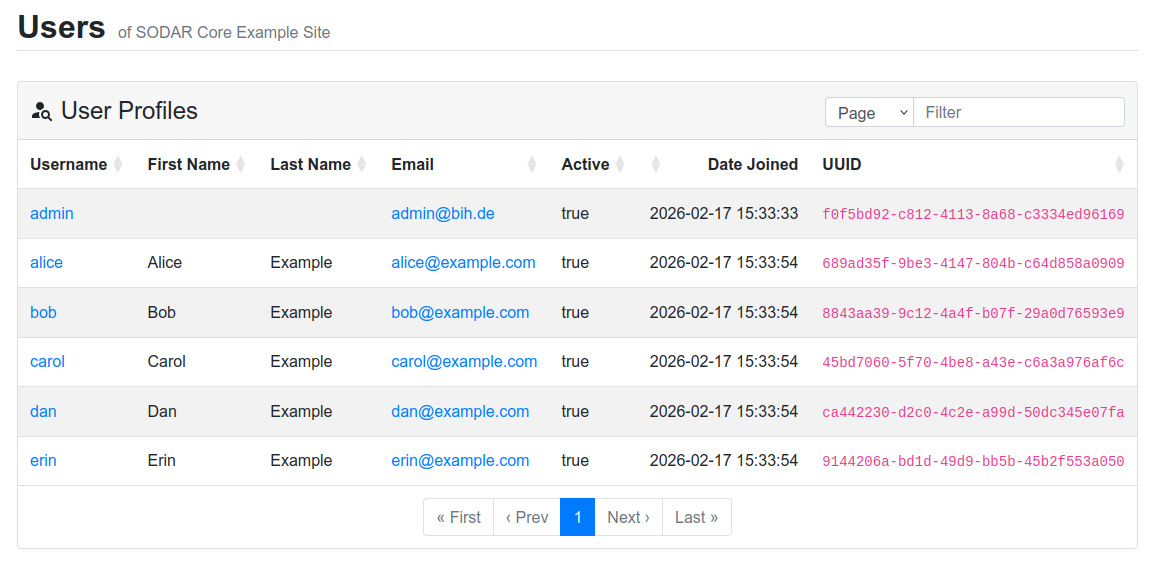
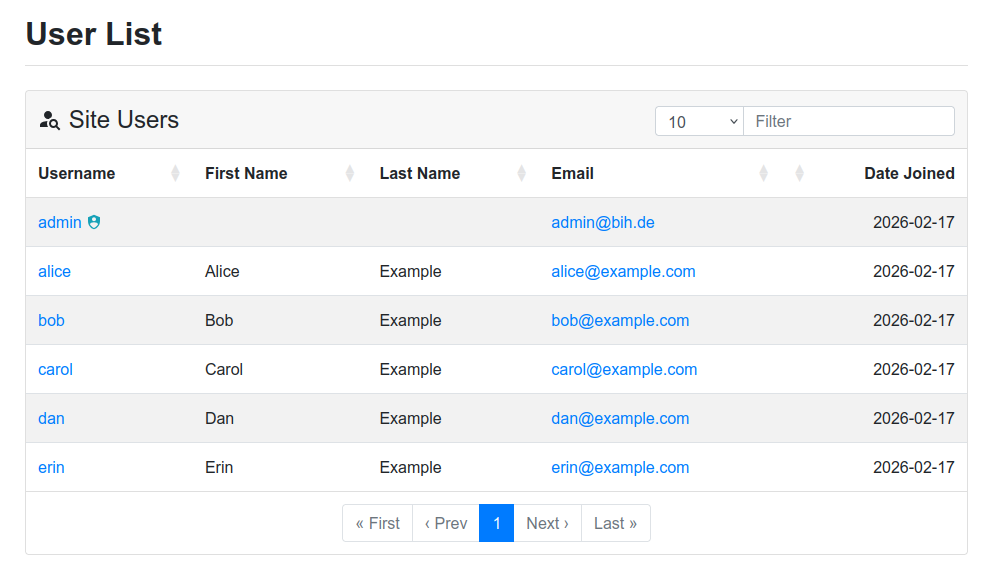
use get_user_html() in UserListAjaxView (#1984)

diff --git a/userprofile/static/userprofile/js/list.js b/userprofile/static/userprofile/js/list.js
@@ -7,13 +7,8 @@ const spinner = $('#sodar-up-user-list-spinner')
 $.get(userList.data('url')).done(data => {
   spinner.remove()
   for (let user of data) {
-    const userEmailLink = userList.data('link-prefix') + '/' + user.sodar_uuid
     const tr = $('<tr>')
-    $('<td>').html(
-      $('<a>', {
-        href: userEmailLink + '?source=UserListView'
-      }).text(user.username)
-    ).appendTo(tr)
+    $('<td>').html(user.user_html).appendTo(tr)
     $('<td>').text(user.first_name).appendTo(tr)
     $('<td>').text(user.last_name).appendTo(tr)
     $('<td>').html(

diff --git a/userprofile/templates/userprofile/detail.html b/userprofile/templates/userprofile/detail.html
@@ -36,12 +36,6 @@
   <div class="sodar-pr-content-title-secondary text-muted">
     User Profile
   </div>
-  {% if request.GET.source == 'UserListView' %}
-    <a role="button" class="btn btn-secondary ml-auto pull-right"
-       href="{% url 'userprofile:list' %}">
-      <i class="iconify" data-icon="mdi:arrow-left-circle"></i> Back
-    </a>
-  {% endif %}
 </div>
 
 <div class="container-fluid sodar-page-container">

diff --git a/userprofile/tests/test_views_ajax.py b/userprofile/tests/test_views_ajax.py
@@ -3,6 +3,7 @@
 from django.urls import reverse
 from django.utils.timezone import localtime
 
+from projectroles.templatetags.projectroles_common_tags import get_user_html
 from userprofile.tests.test_views import UserViewTestBase
 
 
@@ -19,31 +20,28 @@ class TestUserListAjaxView(UserViewTestBase):
         self.url = reverse('userprofile:ajax_list')
         self.expected = [
             {
-                'username': 'other_user',
+                'user_html': get_user_html(self.other_user),
                 'first_name': '',
                 'last_name': '',
                 'email': 'other_user@example.com',
-                'is_active': False,
                 'date_joined': localtime(self.other_user.date_joined).strftime(
                     '%Y-%m-%d'
                 ),
             },
             {
-                'username': 'regular_user',
+                'user_html': get_user_html(self.regular_user),
                 'first_name': 'Roger',
                 'last_name': 'Larsen',
                 'email': 'regular_user@example.com',
-                'is_active': True,
                 'date_joined': localtime(
                     self.regular_user.date_joined
                 ).strftime('%Y-%m-%d'),
             },
             {
-                'username': 'superuser',
+                'user_html': get_user_html(self.user),
                 'first_name': '',
                 'last_name': '',
                 'email': 'superuser@example.com',
-                'is_active': True,
                 'date_joined': localtime(self.user.date_joined).strftime(
                     '%Y-%m-%d'
                 ),
@@ -56,7 +54,7 @@ class TestUserListAjaxView(UserViewTestBase):
             response = self.client.get(self.url)
         self.assertEqual(response.status_code, 200)
         self.assertEqual(
-            sorted(response.data, key=lambda x: x['username']), self.expected
+            sorted(response.data, key=lambda x: x['email']), self.expected
         )
 
     def test_get_as_regular_user(self):
@@ -65,7 +63,7 @@ class TestUserListAjaxView(UserViewTestBase):
             response = self.client.get(self.url)
         self.assertEqual(response.status_code, 200)
         self.assertEqual(
-            sorted(response.data, key=lambda x: x['username']), self.expected
+            sorted(response.data, key=lambda x: x['email']), self.expected
         )
 
     def test_get_as_anonymous_user(self):

diff --git a/userprofile/tests/test_ui.py b/userprofile/tests/test_ui.py
@@ -1,7 +1,5 @@
 """UI tests for the userprofile app"""
 
-from urllib.parse import urlsplit
-
 from django.test import override_settings
 from django.urls import reverse
 from django.utils.timezone import localtime
@@ -412,19 +410,40 @@ class TestUserListView(SiteUITestBase):
         :raise: AssertionError if row fields are not as expected
         """
         cells = row.find_elements(By.TAG_NAME, 'td')
-        user_profile_href = (
-            cells[0].find_element(By.TAG_NAME, 'a').get_attribute('href')
-        )
-        user_profile_path = reverse(
-            'userprofile:detail_public', kwargs={'user': user.sodar_uuid}
-        )
+        if user.is_superuser:
+            # Wait before icon is rendered
+            WebDriverWait(cells[0], 15).until(
+                lambda x: x.find_element(By.TAG_NAME, 'svg')
+            )
+            user_icon = (
+                cells[0]
+                .find_element(By.TAG_NAME, 'svg')
+                .get_attribute('data-icon')
+            )
+            self.assertEqual(user_icon, 'mdi:shield-account')
+        if user.is_active:
+            table_href = (
+                cells[0].find_element(By.TAG_NAME, 'a').get_attribute('href')
+            )
+            user_profile_link = f'mailto:{user.email}'
+            self.assertEqual(table_href, user_profile_link)
+        else:
+            # Wait before icon is rendered
+            WebDriverWait(cells[0], 15).until(
+                lambda x: x.find_element(By.TAG_NAME, 'svg')
+            )
+            user_icon = (
+                cells[0]
+                .find_element(By.TAG_NAME, 'svg')
+                .get_attribute('data-icon')
+            )
+            self.assertEqual(user_icon, 'mdi:account-off')
         self.assertEqual(cells[0].text, user.username)
-        self.assertEqual(urlsplit(user_profile_href).path, user_profile_path)
         self.assertEqual(cells[1].text, user.first_name)
         self.assertEqual(cells[2].text, user.last_name)
         self.assertEqual(cells[3].text, user.email)
         self.assertEqual(
-            cells[3].find_element(By.TAG_NAME('a')).get_attribute('href'),
+            cells[3].find_element(By.TAG_NAME, 'a').get_attribute('href'),
             f'mailto:{user.email}',
         )
         self.assertEqual(

diff --git a/userprofile/views_ajax.py b/userprofile/views_ajax.py
@@ -3,6 +3,7 @@ from django.utils.timezone import localtime
 from rest_framework.response import Response
 
 from projectroles.views_ajax import SODARBasePermissionAjaxView
+from projectroles.templatetags.projectroles_common_tags import get_user_html
 
 
 User = auth.get_user_model()
@@ -14,17 +15,14 @@ class UserListAjaxView(SODARBasePermissionAjaxView):
     permission_required = 'userprofile.view_list'
 
     def get(self, request, *args, **kwargs):
-        queryset = User.objects.values()
+        queryset = User.objects.all()
         res = [
             {
-                'username': obj['username'],
-                'first_name': obj['first_name'],
-                'last_name': obj['last_name'],
-                'email': obj['email'],
-                'is_active': obj['is_active'],
-                'date_joined': localtime(obj['date_joined']).strftime(
-                    '%Y-%m-%d'
-                ),
+                'user_html': get_user_html(obj),
+                'first_name': obj.first_name,
+                'last_name': obj.last_name,
+                'email': obj.email,
+                'date_joined': localtime(obj.date_joined).strftime('%Y-%m-%d'),
             }
             for obj in queryset
         ]
